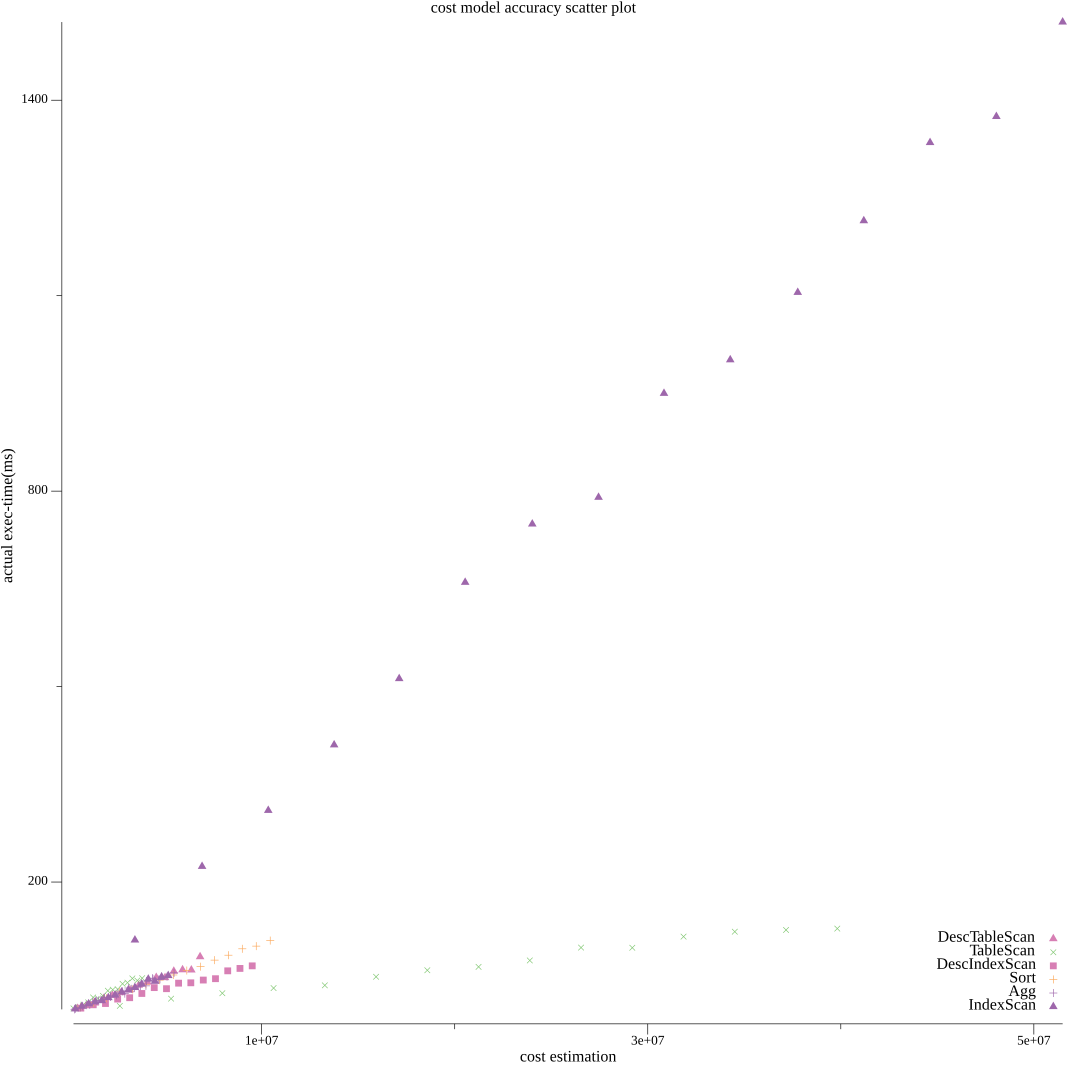
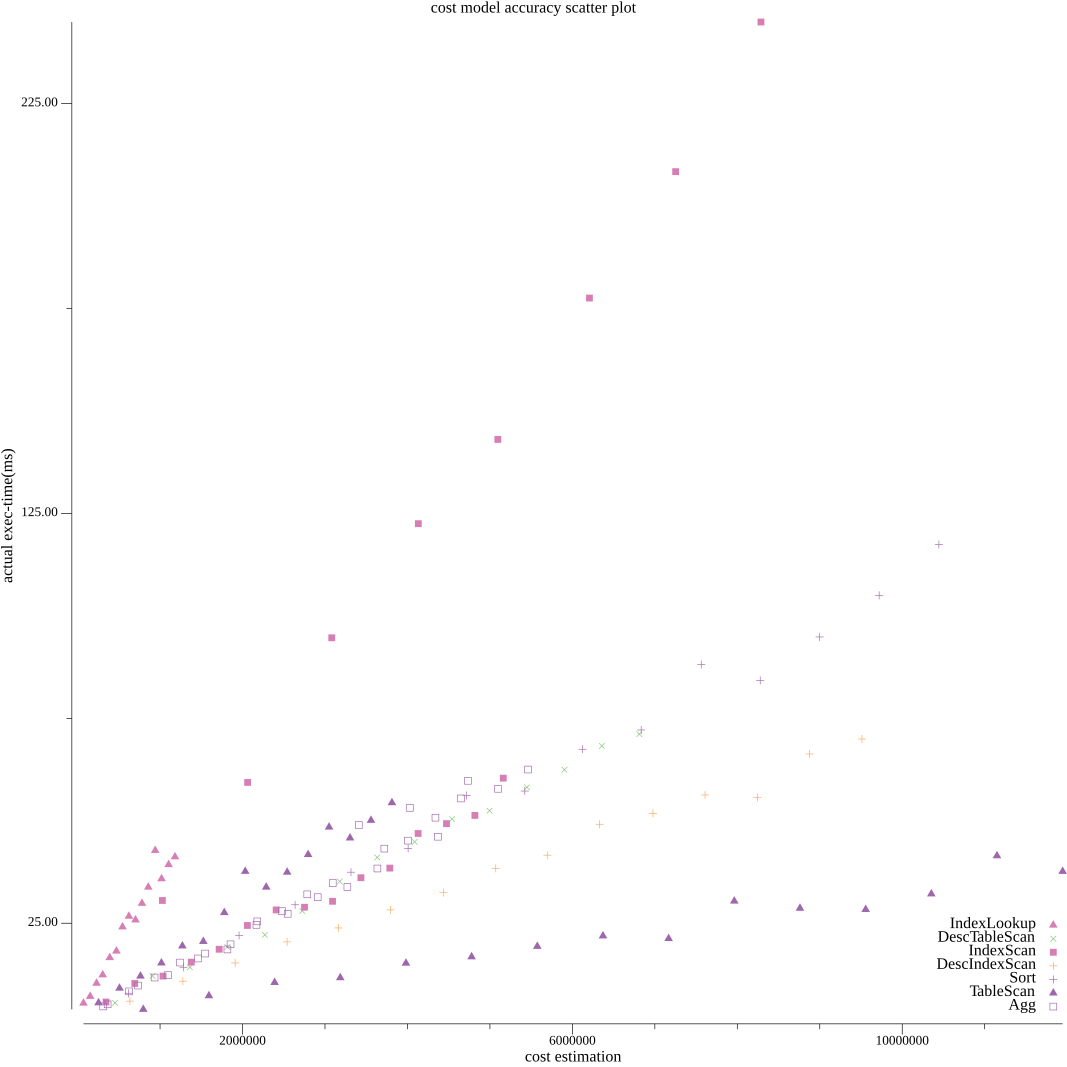
fixup

diff --git a/cost/eval_synthetic.go b/cost/eval_synthetic.go
@@ -60,7 +60,7 @@ func genSyntheticEvaluationScanQueries(ins tidb.Instance, n int) (qs Queries) {
 
 	// select /*+ use_index(t, primary) */ a, c from t where a>=? and a<=?; -- WideTableScan
 	for i := 0; i < n; i++ {
-		l, r := randRange(minA, maxA, i, n, 0)
+		l, r := randRange(minA, maxA, i, n, 0.3)
 		qs = append(qs, Query{
 			SQL:   fmt.Sprintf("select /*+ use_index(t, primary) */ a, c from t where a>=%v and a<=%v", l, r),
 			Label: "TableScan",
@@ -78,7 +78,7 @@ func genSyntheticEvaluationScanQueries(ins tidb.Instance, n int) (qs Queries) {
 
 	// select /*+ use_index(t, bc) */ b, c from t where b>=? and b<=?; -- WideIndexScan
 	for i := 0; i < n; i++ {
-		l, r := randRange(minB, maxB, i, n, 0)
+		l, r := randRange(minB, maxB, i, n, 0.3)
 		qs = append(qs, Query{
 			SQL:   fmt.Sprintf("select /*+ use_index(t, b) */ b, c from t where b>=%v and b<=%v", l, r),
 			Label: "IndexScan",

diff --git a/cost/costeval.go b/cost/costeval.go
@@ -128,9 +128,12 @@ func evalOnDataset(ins tidb.Instance, opt *evalOpt) {
 		if r.Label == "Point" {
 			continue
 		}
-		if r.Label == "IndexLookup" {
-			continue
-		}
+		//if r.TimeMS >= 250 {
+		//	continue
+		//}
+		//if r.Label == "IndexLookup" {
+		//	continue
+		//}
 		//if r.Cost < 5e8 {
 		//	continue
 		//}
